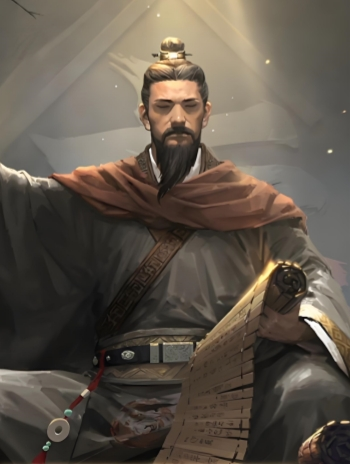
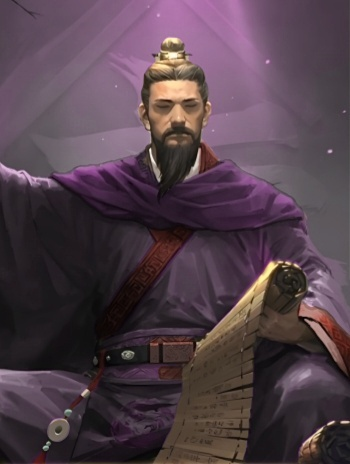
陈寿改色

diff --git a/character/happy.js b/character/happy.js
@@ -98,6 +98,7 @@ game.import('character', function (lib, game, ui, get, ai, _status) {
 
 			// 欢杀左慈
 			hpp_re_zuoci: ['male', 'qun', 3, ['hpp_re_xinsheng'], []],
+			hpp_re_luxun: ['male', 'qun', '4/10', ['minireshangshi'],['unseen']],
 		},
 		characterIntro: {
 			lao_caofang: '曹芳（232年－274年），字兰卿，沛国谯县（今安徽省亳州市）人。三国时期曹魏第三位皇帝（239年1月22日－254年10月17日在位），疑为魏武帝曹操曾孙，任城威王曹彰之孙，任城王曹楷之子。太和六年（232年），生于任城王府。青龙三年（235年），选为魏明帝曹叡养子，册封齐王。景初三年（239年），立为皇太子，同日魏明帝曹叡病死，曹芳正式即位，由大将军曹爽和太尉司马懿共同辅政。正始十年，经历高平陵之变，曹爽倒台，政权落入司马氏手中。嘉平六年（254年），中书令李丰和光禄大夫张缉图谋废掉司马师，改立夏侯玄为大将军。司马师平定叛乱后，将曹芳废为齐王，拥戴高贵乡公曹髦继位。西晋建立后，册封邵陵县公。泰始十年（274年），曹芳病逝，终年四十三岁，谥号为厉。',
@@ -109,7 +110,7 @@ game.import('character', function (lib, game, ui, get, ai, _status) {
 			lao_tuan: '土安，《三国演义》里的人物，长乌戈国主兀突骨手下的一个藤甲领兵长，身穿藤甲，后被诸葛施计引入盘蛇谷中阵亡。',
 			lao_xini: '奚泥，小说《三国演义》中的人物。乌戈国国主兀突骨部下的藤甲领兵俘长。曾大败蜀军，后为蜀相诸葛亮施计引入盘蛇谷中，尽烧其众，无所生还。',
 			lao_yanxing: '阎行（生卒年不详），字彦明，后改名为阎艳，金城人（今甘肃省兰州市附近），东汉末年人物。初为韩遂部将，建安初，阎行与马超互相攻击，一次，阎行用矛刺马超，矛折断了，接着阎行用断矛击打马超脖子，几乎杀死马超。后与韩遂反目，举兵相攻，不能胜，于是投靠曹操，被封为列侯。',
-			lao_sp_chenshou: '陈寿（233年－297年），字承祚，巴西郡安汉县（今四川省南充市）人。三国蜀汉时至西晋官员、史学家。陈寿少时好学，师事同郡学者谯周，在蜀汉时曾任卫将军主簿、东观秘书郎、观阁令史、散骑黄门侍郎等职。当时，宦官黄皓专权，大臣都曲意附从。陈寿因为不肯屈从黄皓，所以屡遭遣黜。蜀汉灭亡后，“沉滞者累年”。后受张华荐举，在西晋历任著作郎、长广太守、治书侍御史、太子中庶子等职。晚年多次被贬，屡次受人非议。元康七年（297年）病逝，享年六十五岁。太康元年（280年），晋灭吴结束了分裂局面后，陈寿历经十年的艰辛，终于完成了纪传体史学巨著《三国志》。此书脱稿后，颇受称赞，时人谓其善叙史，有良史之才。《三国志》完整地记叙了自汉末至晋初近百年间中国由分裂走向统一的历史全貌，与《史记》《汉书》《后汉书》并称“前四史”。',
+			lao_sp_chenshou: '陈寿（233年－297年），字承祚，三国蜀汉时至西晋官员、史学家。陈寿少时好学，师事同郡学者谯周，在蜀汉时曾任卫将军主簿、东观秘书郎、观阁令史、散骑黄门侍郎等职。当时，宦官黄皓专权，大臣都曲意附从。陈寿因为不肯屈从黄皓，所以屡遭遣黜。蜀汉灭亡后，“沉滞者累年”。后受张华荐举，在西晋历任著作郎、长广太守、治书侍御史、太子中庶子等职。晚年多次被贬，屡次受人非议。元康七年（297年）病逝，享年六十五岁。太康元年（280年），晋灭吴结束了分裂局面后，陈寿历经十年的艰辛，终于完成了纪传体史学巨著《三国志》。此书脱稿后，颇受称赞，时人谓其善叙史，有良史之才。《三国志》完整地记叙了自汉末至晋初近百年间中国由分裂走向统一的历史全貌，与《史记》《汉书》《后汉书》并称“前四史”。',
 			lao_sp_wanglang: '王朗（？－228年），本名王严，字景兴。东海郡郯县（今山东省临沂市郯城县）人。汉末至三国曹魏时期重臣、经学家。王朗早年师从太尉杨赐，因通晓经籍而被拜为郎中。后因杨赐去世而弃官服丧，不应孝廉之命。徐州刺史陶谦举其为茂才，拜徐州治中从事。后升任会稽太守，任内获百姓爱戴。建安元年（196年），孙策南攻会稽，王朗率军抵御，终为其所败，并在逃亡途中被孙策擒获，受到礼遇。之后应丞相曹操辟命，被拜为谏议大夫、参司空军事。魏王国建立后，王朗以军祭酒兼领魏郡太守，又任少府、奉常、大理等职。曹丕继王位时，迁御史大夫，封安陵亭侯。曹魏建立后，王朗改任司空，进封乐平乡侯。曹叡继位后，进封王朗为兰陵侯。太和二年（228年），王朗去世。其子王肃袭爵兰陵侯。王朗博学多闻，校注儒家经典，很有名气。王朗有文集三十卷，著有《周易传》《春秋传》《孝经传》等。在魏国朝廷以其所作的《周易传》作为学习《易》学的人必须考核的内容。后世把王朗注解里的思想称为“王学”。',
 
 			hok_ailin: '艾琳是黄金森林的在逃精灵公主，日落圣殿的不速之客。公主艾琳天性机灵活泼，对一切未知充满好奇心与探索欲。然而“继承人”的责任始终压在她的肩膀上，她被要求收起不稳重的一面，遵循精灵族舞蹈的优雅与绝对的秩序，做好一个“真正的公主”。成年仪式前夕，艾琳决定打破族群禁令，逃去森林外的“危险古怪的人类世界”开启一场自由的冒险。旅程却并没有想象中那样顺遂，人类对精灵同样存在“不详邪恶”的重重误解。越是未知，越是有趣，越是困难，越有斗志。她以舞蹈为表达自我的“语言”，与红头发的法师小女孩成为密友，给圣殿严肃守序的骑士团带来了诸多意外麻烦，甚至组成了圣殿小分队在西方大陆的各个地方冒险……',
